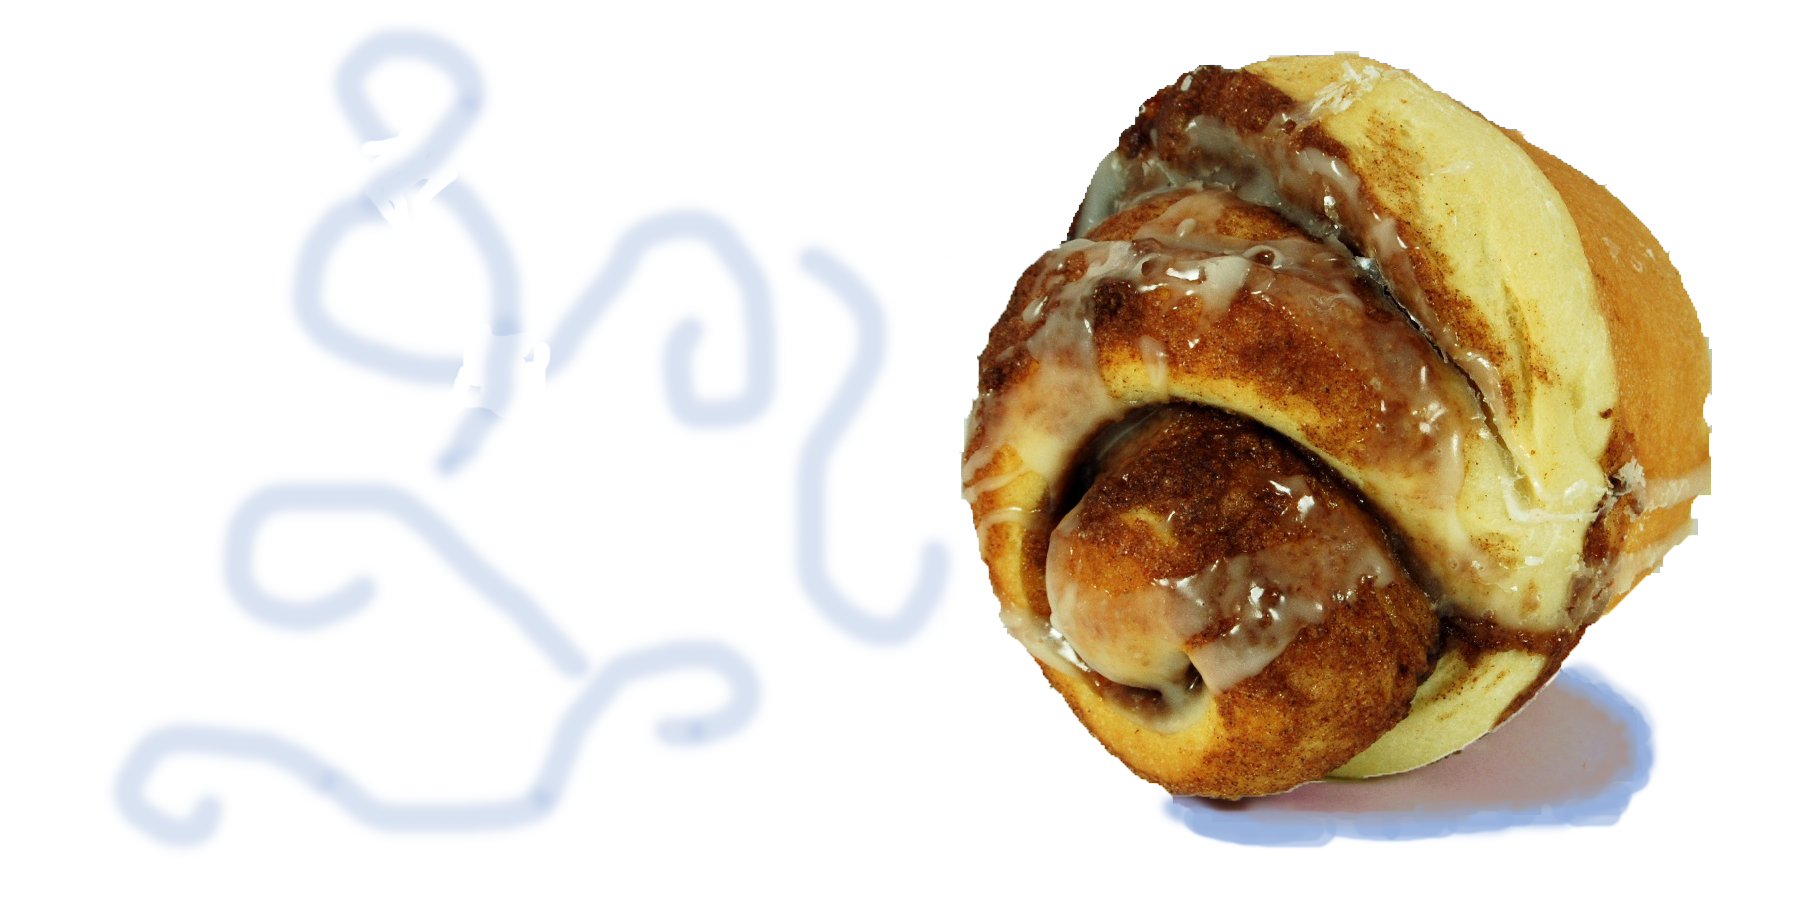
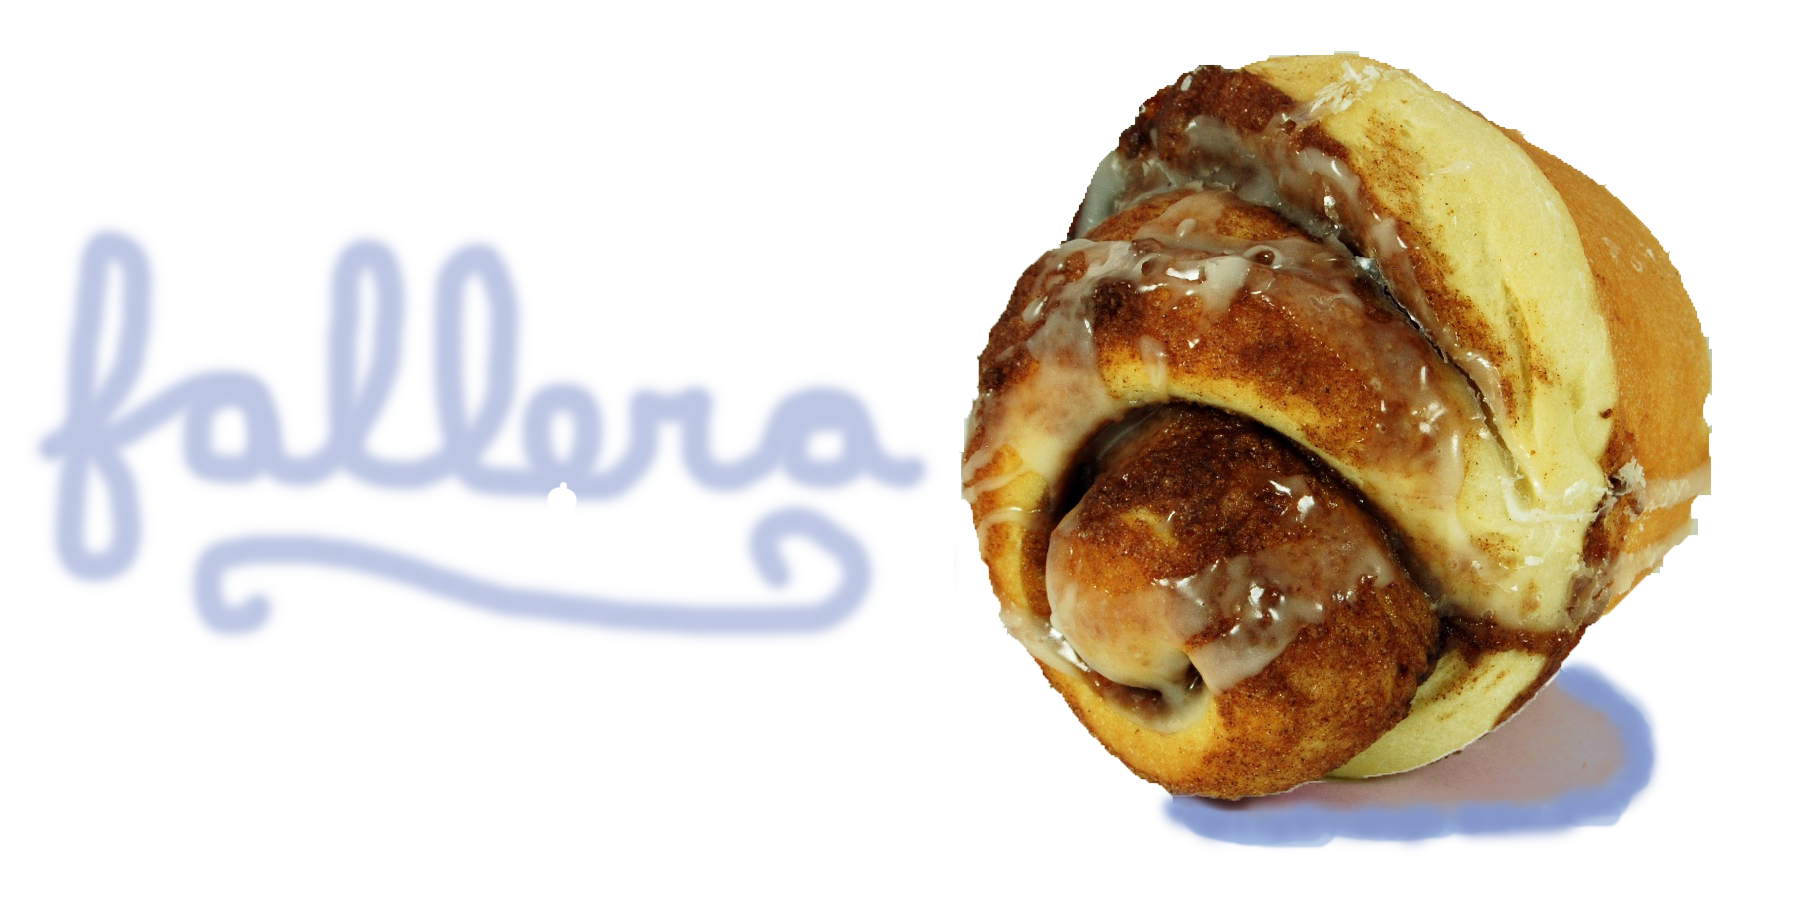
aesthetic changes from Molly

diff --git a/assignments/needs_analysis.html b/assignments/needs_analysis.html
@@ -47,14 +47,16 @@
 					<img class="inline" src="../static/images/needs_analysis/Users_on_scales.JPG" width="300px" align="right">
 					<p>We interviewed individuals with a variety of outlooks on cooking.  Some of the individuals, primarily college students or working adults who were not the primary cook in their family, cooked irregularly or for special occasions.  These individuals look at cooking as a fun, occasional activity rather than a part of their daily routines.  Others, primarily young working adults living on their own or serving as the primary cook in their family, cook daily or at least several times a week.  They still enjoy cooking, but they have tighter time constraints and start with an idea of what they would like to make rather than how to bring friends into the process.  We also interviewed individuals who we determined were not part of our user group because they do not enjoy cooking and therefore would not try to cook as a fun social event.</p>
 					<p>We found the following themes in common among the individuals we interviewed:</p>
-					<h5>Cooking is a very personal experience</h5>
-					<p>All of the users we interviewed were interested in cooking with friends, but they were all highly opposed to using social cooking as a way to meet strangers.  For our users, cooking is something to be shared with people they care about and not an activity they feel comfortable sharing with people they do not know well.</p>
-					<h5>Scheduling is a problem</h5>
-					<p>Our users are busy with work, school, and activities, and they do not have extra time to spend trying to schedule cooking events.  The main reason they do not regularly cook socially is they cannot quickly sort out the logistics.</p>
-					<h5>Scheduling needs to be flexible</h5>
-					<p>Our users try to plan when they will cook, but sometimes they get home late from work or recipes take longer than expected.  They would like to plan the social cooking experience but have flexibility to adjust as necessary with little notice.</p>
-					<h5>Inspired by food</h5>
-					<p>Cooking is fun for our users—that’s why they are interested in sharing this experience with others.  They like trying out new recipes and sharing old favorites with friends.  </p>
+					<ul>
+					<li><b>Cooking is a very personal experience:</b> 
+					All of the users we interviewed were interested in cooking with friends, but they were all highly opposed to using social cooking as a way to meet strangers.  For our users, cooking is something to be shared with people they care about and not an activity they feel comfortable sharing with people they do not know well.</p>
+					<li><b>Scheduling is a problem</b>
+					Our users are busy with work, school, and activities, and they do not have extra time to spend trying to schedule cooking events.  The main reason they do not regularly cook socially is they cannot quickly sort out the logistics.
+					<li><b>Scheduling needs to be flexible</b>
+					Our users try to plan when they will cook, but sometimes they get home late from work or recipes take longer than expected.  They would like to plan the social cooking experience but have flexibility to adjust as necessary with little notice.
+					<li><b>Inspired by food</b>
+					Cooking is fun for our users—that’s why they are interested in sharing this experience with others.  They like trying out new recipes and sharing old favorites with friends.
+					</ul>
 					
 					<img src="../static/images/needs_analysis/needs_analysis/Grouping_users_to_Personas.jpg" width="700px">
 					<a id="tasks-analysis"><h2>Tasks Analysis</h2></a>

diff --git a/assignments/assignments.html b/assignments/assignments.html
@@ -13,8 +13,13 @@
 	<body>
 		<div class="header">
 			<div class="centered">
-				<div id="team-name">Fallera - Social Cooking</div>
-				<div id="class-name">Human Factors Interface Design, Fall 2012</div>
+				<div style = "display:inline-block">
+					<div id="team-name">Fallera - Social Cooking</div>			
+					<div id="class-name">Human Factors Interface Design, Fall 2012</div>
+				</div>
+				<div style = "float:right">	
+					<img src="../static/images/styling/cinnamonRollEditsNoBG.png" width="275px">
+				</div>
 			</div>
 		</div>
 		<div class="body centered">

diff --git a/assignments/consent_form.html b/assignments/consent_form.html
@@ -12,8 +12,13 @@
 	<body>
 		<div class="header">
 			<div class="centered">
-				<div id="team-name">Fallera - Social Cooking</div>
-				<div id="class-name">Human Factors Interface Design, Fall 2012</div>
+				<div style = "display:inline-block">
+					<div id="team-name">Fallera - Social Cooking</div>			
+					<div id="class-name">Human Factors Interface Design, Fall 2012</div>
+				</div>
+				<div style = "float:right">	
+					<img src="../static/images/styling/cinnamonRollEditsNoBG.png" width="275px">
+				</div>
 			</div>
 		</div>
 		<div class="body centered">

diff --git a/assignments/inspirational_designs.html b/assignments/inspirational_designs.html
@@ -12,8 +12,13 @@
 	<body>
 		<div class="header">
 			<div class="centered">
-				<div id="team-name">Fallera - Social Cooking</div>
-				<div id="class-name">Human Factors Interface Design, Fall 2012</div>
+				<div style = "display:inline-block">
+					<div id="team-name">Fallera - Social Cooking</div>			
+					<div id="class-name">Human Factors Interface Design, Fall 2012</div>
+				</div>
+				<div style = "float:right">	
+					<img src="../static/images/styling/cinnamonRollEditsNoBG.png" width="275px">
+				</div>
 			</div>
 		</div>
 		<div class="body centered">

diff --git a/assignments/project_proposal.html b/assignments/project_proposal.html
@@ -12,8 +12,13 @@
 	<body>
 		<div class="header">
 			<div class="centered">
-				<div id="team-name">Fallera - Social Cooking</div>
-				<div id="class-name">Human Factors Interface Design, Fall 2012</div>
+				<div style = "display:inline-block">
+					<div id="team-name">Fallera - Social Cooking</div>			
+					<div id="class-name">Human Factors Interface Design, Fall 2012</div>
+				</div>
+				<div style = "float:right">	
+					<img src="../static/images/styling/cinnamonRollEditsNoBG.png" width="275px">
+				</div>
 			</div>
 		</div>
 		<div class="body centered">

diff --git a/index.html b/index.html
@@ -12,8 +12,13 @@
 	<body>
 		<div class="header">
 			<div class="centered">
-				<div id="team-name">Fallera - Social Cooking</div>
-				<div id="class-name">Human Factors Interface Design, Fall 2012</div>
+				<div style = "display:inline-block">
+					<div id="team-name">Fallera - Social Cooking</div>			
+					<div id="class-name">Human Factors Interface Design, Fall 2012</div>
+				</div>
+				<div style = "float:right">	
+					<img src="static/images/styling/cinnamonRollEditsNoBG.png" width="275px">
+				</div>
 			</div>
 		</div>
 		<div class="body centered">

diff --git a/static/css/main.css b/static/css/main.css
@@ -51,7 +51,7 @@ body {
 	float:center;
 	margin:0px -5px 0px 0px;
 	padding:10px;
-	width:162.5px;
+	width:163.25px;
 	background:#782F02;
 }
 
